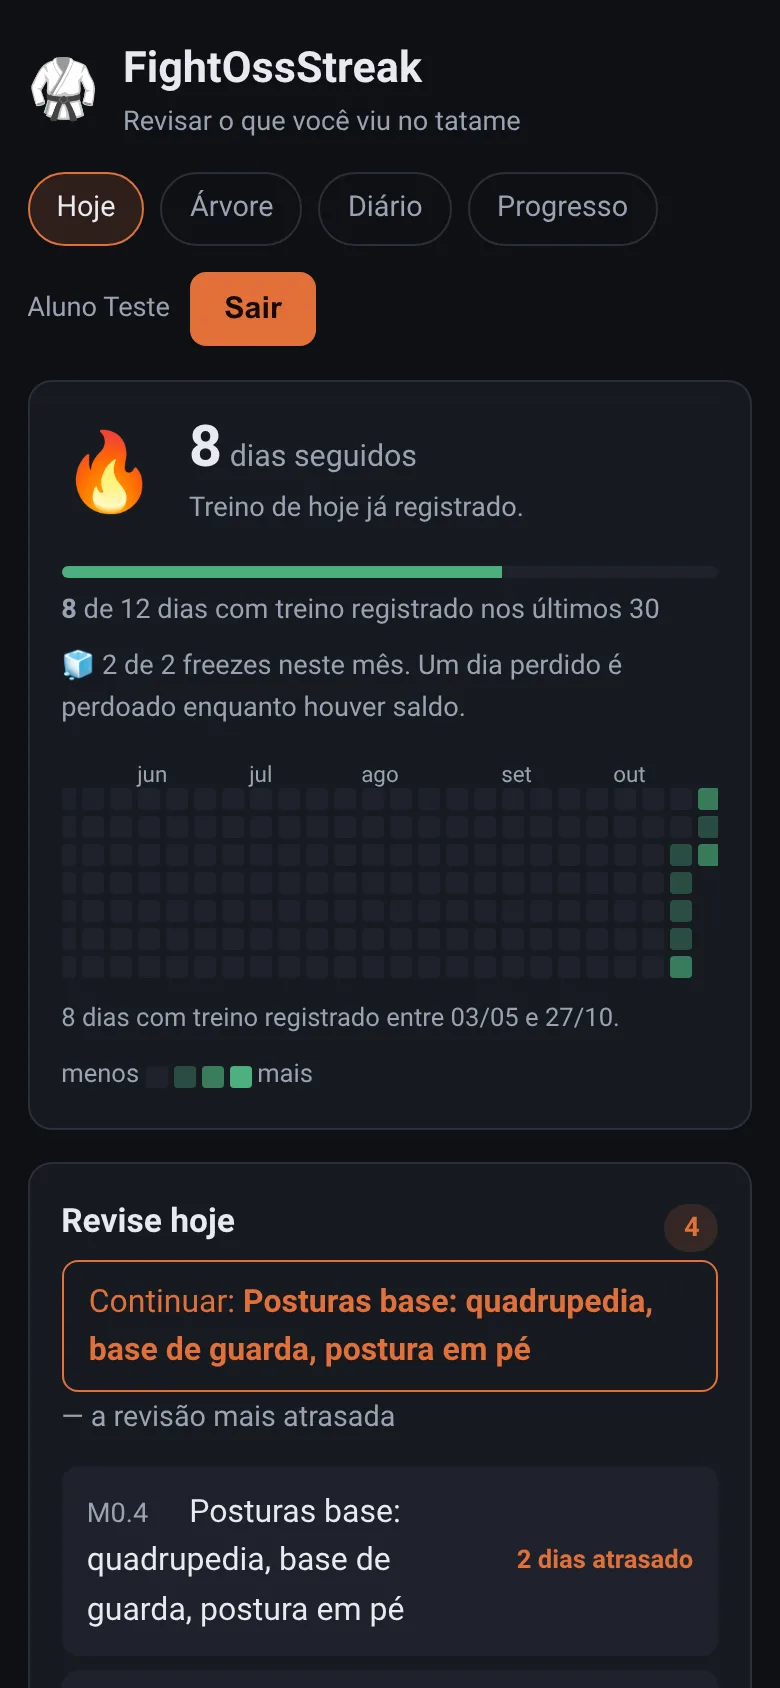
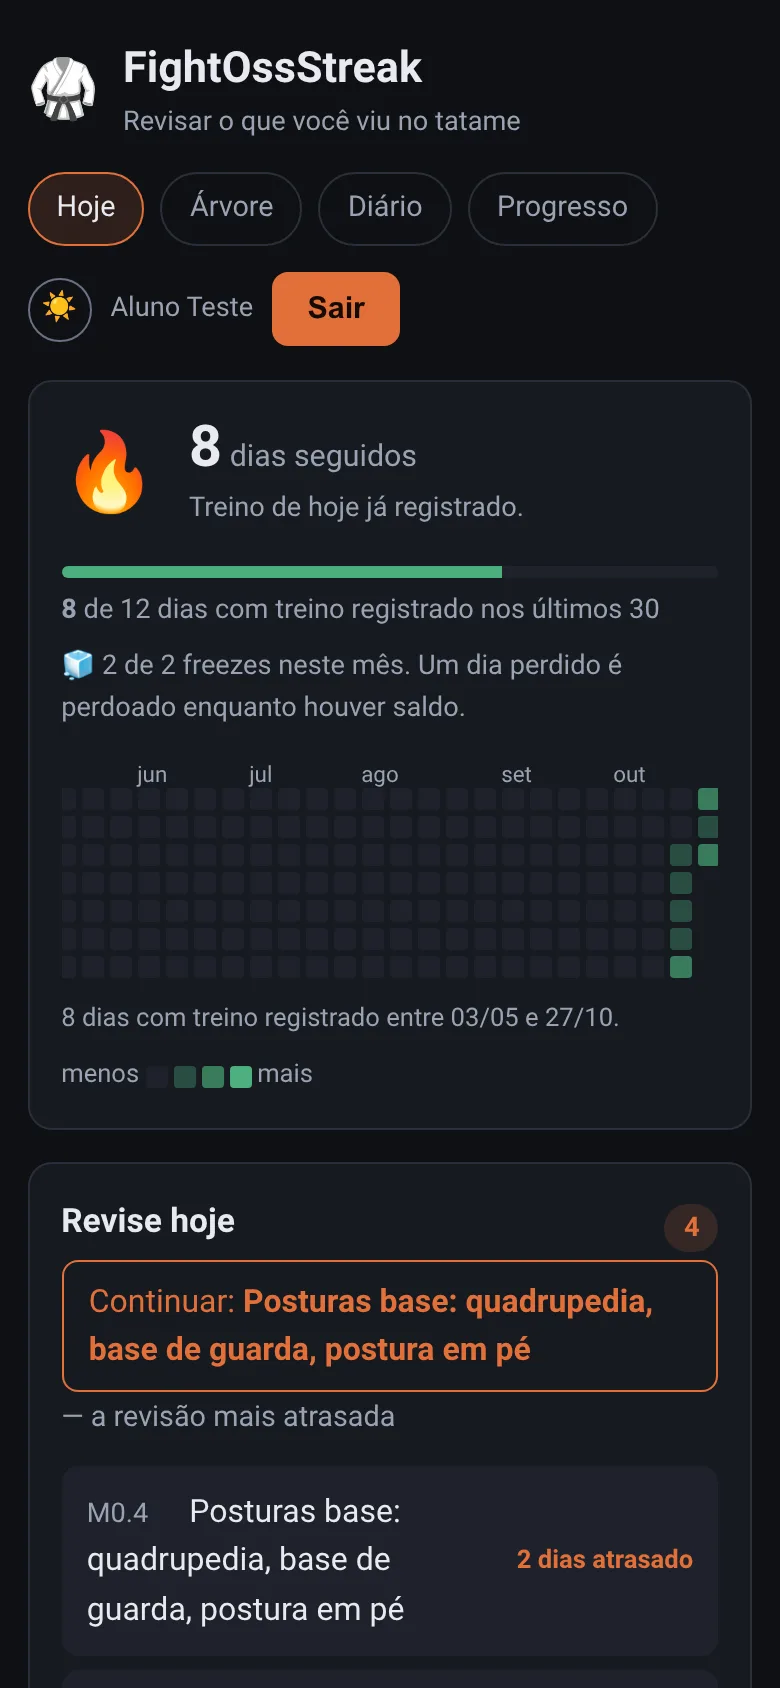
docs(prints): recaptura os prints da landing com o atalho de tema
O script passa a forçar prefers-color-scheme: dark pelo CDP: o Chrome
headless anuncia light e, com o tema claro (D74), os prints sairiam
claros. Os onze arquivos mostram o atalho no cabeçalho e o nó bloqueado
sem opacidade.

Changed region(s): [[0.0308, 0.154, 0.3692, 0.2156], [0.4, 0.154, 0.5231, 0.2156]]

diff --git a/docs/desenvolvimento/prints-historico.md b/docs/desenvolvimento/prints-historico.md
@@ -114,3 +114,13 @@ Registro do que cada recaptura mudou e por quê. O procedimento está em
 > depois, e a sessão foi aberta pelo `seed-dev-users.mjs` mais o login com senha. Uma primeira
 > tentativa com a conta do banco local saiu com o heatmap inflado por semeaduras anteriores e foi
 > descartada: semeie sempre numa conta nova.
+
+> **O tema claro (#187, D74) recapturou os onze arquivos.** O atalho ☀ entrou no cabeçalho de
+> todas as telas, e na árvore o nó bloqueado deixou de ser translúcido e passou a usar texto fraco
+> (`--muted`). Os prints continuam no **tema escuro**, o de referência: o script agora força
+> `prefers-color-scheme: dark` pelo CDP, porque o Chrome headless anuncia `light` e, com o tema
+> claro existindo, o app abriria claro. O caminho foi o mesmo da onda 3: projeto separado
+> (`docker compose -p fosprints`) com volume próprio, descartado depois, e login com senha numa
+> conta recém-semeada. **Armadilha nova:** `docker compose -p fosprints up` sem `--build`
+> reaproveita a imagem que sobrou da recaptura anterior, e a primeira captura saiu sem o atalho.
+> Suba sempre com `--build`.
